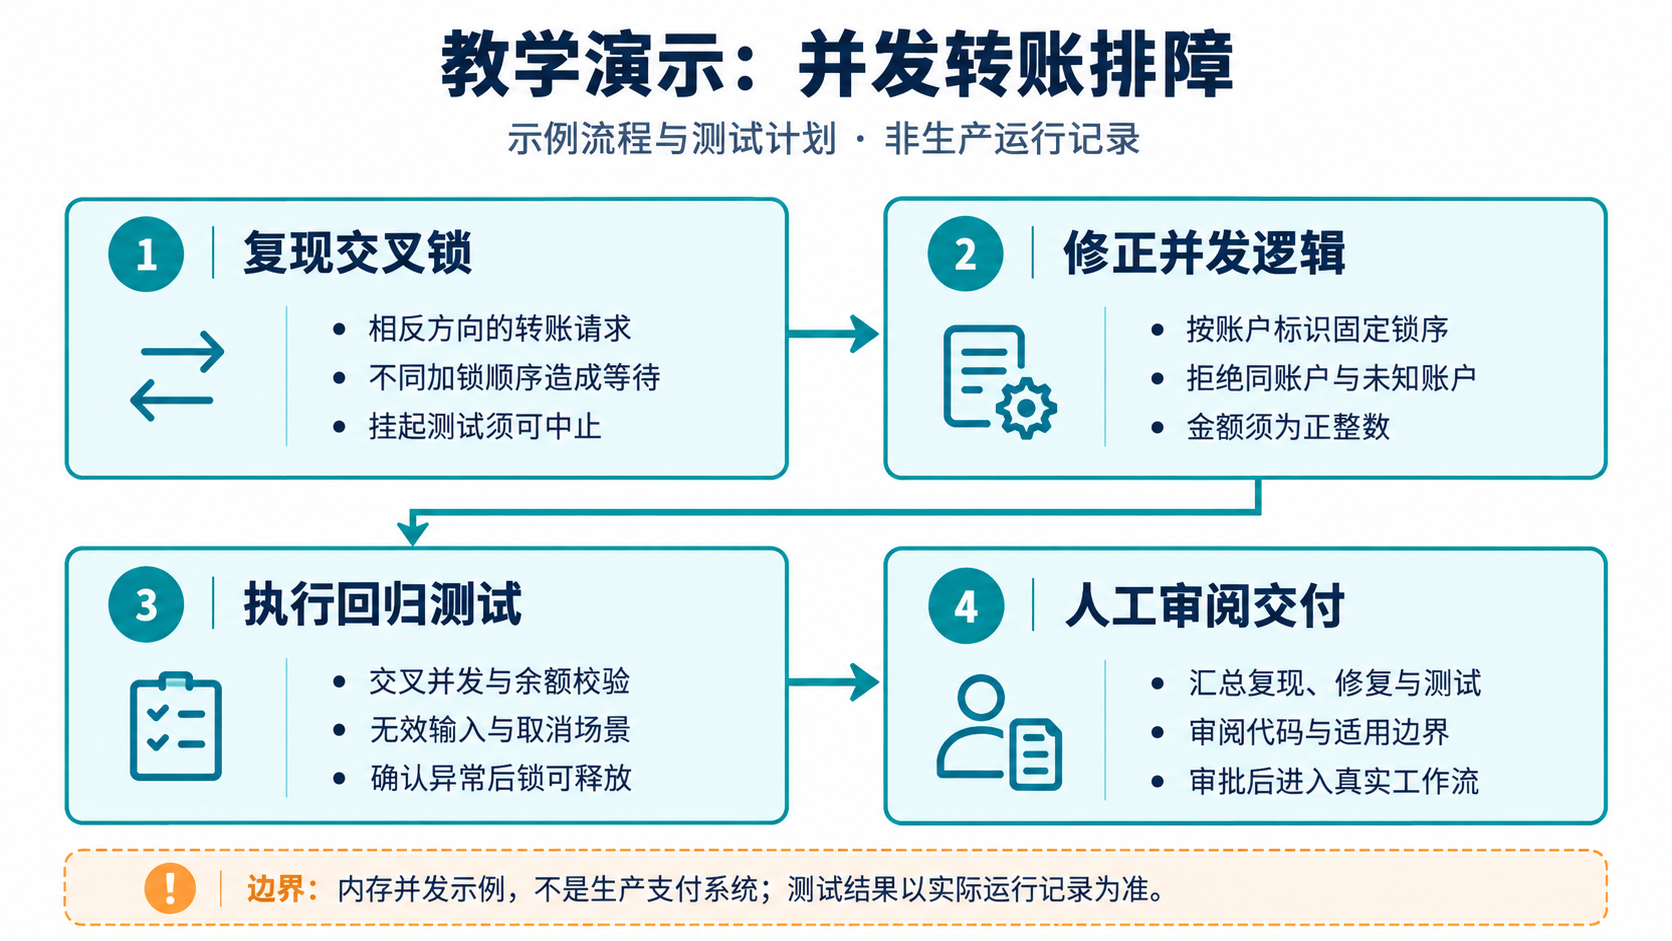
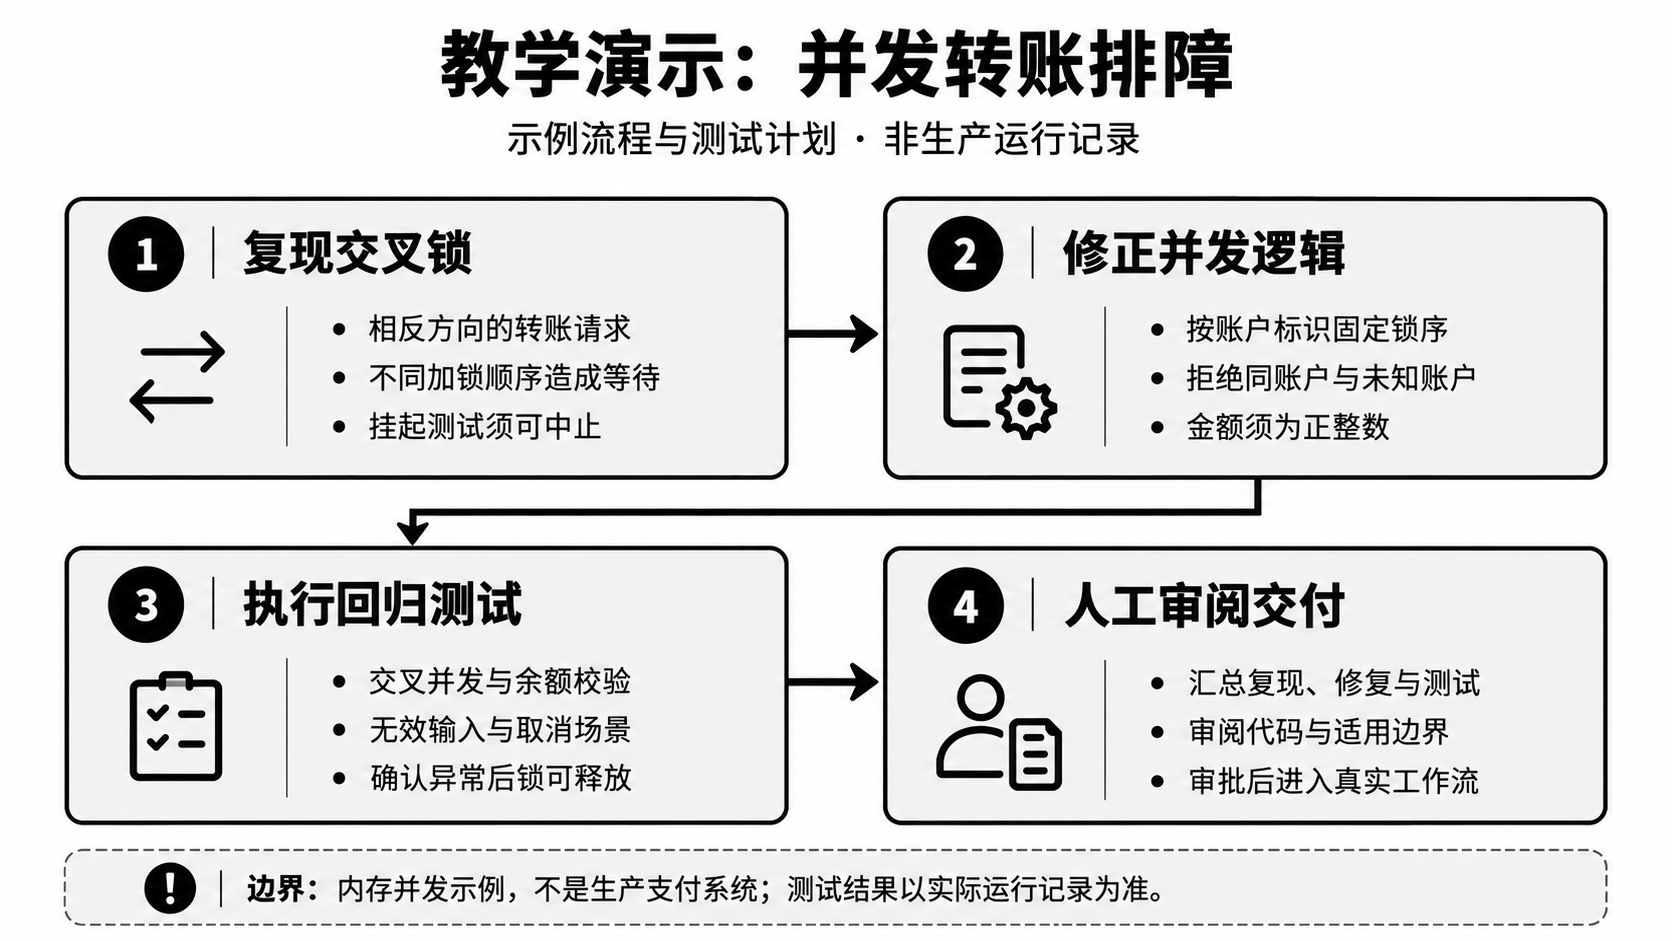
Make recent article diagrams monochrome and expand Super-agent visuals

diff --git a/scripts/check-design-browser.js b/scripts/check-design-browser.js
@@ -14,6 +14,7 @@ async (page, ctx) => {
   const { readFile, readdir } = await import('node:fs/promises');
   const checkedSources = new Map();
   const checkedCandidates = new Map();
+  const checkedMonochrome = new Set();
   const checkOriginal = async (image, label) => {
     assert(image.originalSrc, `${label}: image is missing its original source: ${image.src}`);
     const url = new URL(image.originalSrc, base);
@@ -53,6 +54,31 @@ async (page, ctx) => {
       checkedCandidates.set(candidateUrl, candidate);
     }
     assert(Math.abs(candidate[1] - candidate[0] * source.height / source.width) <= 1, `${label}: selected candidate changed the source proportions: ${candidateUrl}`);
+    // Lossy WebP can tint neutral edges; check every opt-in source and srcset file.
+    if (image.monochrome) {
+      const urls = new Set([url.href, new URL(image.src, base).href,
+        ...(image.srcset || '').split(',').map(value => value.trim().split(/\s+/)[0]).filter(Boolean).map(value => new URL(value, base).href)]);
+      for (const value of urls) {
+        if (checkedMonochrome.has(value)) continue;
+        const nonNeutral = await page.evaluate(async src => {
+          const picture = new Image();
+          picture.src = src;
+          await picture.decode();
+          const canvas = document.createElement('canvas');
+          canvas.width = picture.naturalWidth;
+          canvas.height = picture.naturalHeight;
+          const context = canvas.getContext('2d', { willReadFrequently: true });
+          context.drawImage(picture, 0, 0);
+          const pixels = context.getImageData(0, 0, canvas.width, canvas.height).data;
+          let count = 0;
+          for (let i = 0; i < pixels.length; i += 4) if (pixels[i] !== pixels[i + 1] || pixels[i + 1] !== pixels[i + 2]) count++;
+          return count;
+        }, value);
+        assert(nonNeutral === 0, `${label}: ${nonNeutral} non-neutral pixels in monochrome image: ${value}`);
+        checkedMonochrome.add(value);
+      }
+    }
+
 
   };
   // Check covers on every built page; other body pictures keep their own
@@ -68,6 +94,8 @@ async (page, ctx) => {
           const doc = new DOMParser().parseFromString(html, 'text/html');
           return [...doc.querySelectorAll('img[data-original-src]')].map(image => ({
             src: image.getAttribute('src'),
+            srcset: image.getAttribute('srcset') || '',
+            monochrome: image.dataset.monochrome === 'true',
             listing: !!image.closest('.list-thumbnails'),
             cover: image.matches('.article-cover') || (!doc.querySelector('.article-cover') && image === doc.querySelector('.reading-page .prose img')),
             originalSrc: image.dataset.originalSrc,
@@ -324,6 +352,7 @@ async (page, ctx) => {
   assert(await avatar.evaluate(node => node.complete && node.naturalWidth > 0), `the avatar did not load: ${avatarSrc}`);
   assert(await avatar.getAttribute('width') === '120' && await avatar.getAttribute('height') === '120', 'the avatar must reserve its rendered square');
   report.push('About intro renders the pipelined avatar through aboutIntro');
+  report.push(`${checkedMonochrome.size} opt-in source and generated image candidates preserve exact neutral RGB`);
   report.push(`${blogImageReports.join('; ')}; ${checkedSources.size} distinct original source(s) decoded with preserved proportions; every cover is 900x383`);
   return report;
 }

diff --git a/layouts/_partials/lab/thumbnails.html b/layouts/_partials/lab/thumbnails.html
@@ -1,5 +1,8 @@
 {{- $page := . -}}{{- $priority := false -}}
 {{- if reflect.IsMap . }}{{ $page = .page }}{{ $priority = .priority | default false }}{{ end -}}
+{{- $monochrome := $page.Params.monochromeimages | default false -}}
+{{- $encoding := "webp q85" -}}
+{{- if $monochrome }}{{ $encoding = "webp lossless" }}{{ end -}}
 {{- $sources := partial "lab/image-sources.html" $page -}}
 {{- with $sources -}}
 <div class="list-thumbnails" data-fit="contain">
@@ -14,8 +17,11 @@
       {{- $originalSource = .RelPermalink -}}
       {{- if and (eq .ResourceType "image") (ne .MediaType.SubType "svg") -}}
         {{- $originalWidth = .Width -}}{{- $originalHeight = .Height -}}
-        {{- $preview := .Fit "540x230 webp q85" -}}
-        {{- $large := .Fit "900x383 webp q85" -}}
+        {{- $processable := . -}}
+        {{- /* Normalize grayscale PNGs to RGB before Hugo's WebP codec. */ -}}
+        {{- if $monochrome }}{{ $processable = .Process "bmp" }}{{ end -}}
+        {{- $preview := $processable.Fit (printf "540x230 %s" $encoding) -}}
+        {{- $large := $processable.Fit (printf "900x383 %s" $encoding) -}}
         {{- $url = $preview.RelPermalink -}}
         {{- $width = $preview.Width -}}{{- $height = $preview.Height -}}
         {{- $srcset = printf "%s %dw, %s %dw" $preview.RelPermalink $preview.Width $large.RelPermalink $large.Width -}}
@@ -23,7 +29,7 @@
         {{- $url = .RelPermalink -}}
       {{- end -}}
     {{- end -}}
-    <a href="{{ $page.RelPermalink }}" aria-label="阅读：{{ $page.Title }}"><img src="{{ $url }}" data-original-src="{{ $originalSource }}"{{ if $originalWidth }} data-original-width="{{ $originalWidth }}" data-original-height="{{ $originalHeight }}"{{ end }} alt="{{ $page.Title }} 封面" {{ if and $priority (eq $index 0) }}loading="eager" fetchpriority="high"{{ else }}loading="lazy"{{ end }}{{ with $srcset }} srcset="{{ . }}" sizes="(max-width: 580px) calc(100vw - 40px), (max-width: 900px) 540px, (max-width: 1467px) 36.8vw, 540px"{{ end }} decoding="async" width="{{ $width }}" height="{{ $height }}"></a>
+    <a href="{{ $page.RelPermalink }}" aria-label="阅读：{{ $page.Title }}"><img src="{{ $url }}" data-original-src="{{ $originalSource }}"{{ if $monochrome }} data-monochrome="true"{{ end }}{{ if $originalWidth }} data-original-width="{{ $originalWidth }}" data-original-height="{{ $originalHeight }}"{{ end }} alt="{{ $page.Title }} 封面" {{ if and $priority (eq $index 0) }}loading="eager" fetchpriority="high"{{ else }}loading="lazy"{{ end }}{{ with $srcset }} srcset="{{ . }}" sizes="(max-width: 580px) calc(100vw - 40px), (max-width: 900px) 540px, (max-width: 1467px) 36.8vw, 540px"{{ end }} decoding="async" width="{{ $width }}" height="{{ $height }}"></a>
   {{- end -}}
 </div>
 {{- end -}}

diff --git a/layouts/_markup/render-image.html b/layouts/_markup/render-image.html
@@ -1,4 +1,7 @@
 {{- $source := .Destination -}}
+{{- $monochrome := .Page.Params.monochromeimages | default false -}}
+{{- $encoding := "webp q85" -}}
+{{- if $monochrome }}{{ $encoding = "webp lossless" }}{{ end -}}
 {{- $image := partial "lab/image-resource.html" (dict "page" .Page "src" $source) -}}
 {{- $srcset := slice -}}
 {{- $originalSource := $source -}}
@@ -8,10 +11,12 @@
   {{- $originalSource = .RelPermalink -}}
   {{- if and (eq .ResourceType "image") (ne .MediaType.SubType "svg") -}}
     {{- $originalWidth = .Width -}}{{- $originalHeight = .Height -}}
-    {{- if gt .Width 1440 }}{{ $image = .Resize "1440x webp q85" }}{{ else }}{{ $image = .Process "webp q85" }}{{ end -}}
+    {{- /* Normalize grayscale PNGs to RGB before Hugo's WebP codec. */ -}}
+    {{- if $monochrome }}{{ $image = .Process "bmp" }}{{ end -}}
+    {{- if gt .Width 1440 }}{{ $image = $image.Resize (printf "1440x %s" $encoding) }}{{ else }}{{ $image = $image.Process $encoding }}{{ end -}}
     {{- range slice 480 960 -}}
       {{- if lt . $image.Width -}}
-        {{- $variant := $image.Resize (printf "%dx webp q85" .) -}}
+        {{- $variant := $image.Resize (printf "%dx %s" . $encoding) -}}
         {{- $srcset = $srcset | append (printf "%s %dw" $variant.RelPermalink $variant.Width) -}}
       {{- end -}}
     {{- end -}}
@@ -25,4 +30,4 @@
   {{- end -}}
   {{- $source = $image.RelPermalink -}}
 {{- end -}}
-<img src="{{ $source | safeURL }}" data-original-src="{{ $originalSource | safeURL }}"{{ if $originalWidth }} data-original-width="{{ $originalWidth }}" data-original-height="{{ $originalHeight }}"{{ end }} alt="{{ .PlainText }}"{{ with .Title }} title="{{ . }}"{{ end }}{{ if $width }} width="{{ $width }}" height="{{ $height }}"{{ end }} {{ with $srcset }}srcset="{{ delimit . ", " }}" sizes="(max-width:760px) calc(100vw - 40px), (max-width:1800px) 80vw, 1440px"{{ end }} {{ if eq .Ordinal 0 }}loading="eager" fetchpriority="high"{{ else }}loading="lazy"{{ end }} decoding="async">
+<img src="{{ $source | safeURL }}" data-original-src="{{ $originalSource | safeURL }}"{{ if $monochrome }} data-monochrome="true"{{ end }}{{ if $originalWidth }} data-original-width="{{ $originalWidth }}" data-original-height="{{ $originalHeight }}"{{ end }} alt="{{ .PlainText }}"{{ with .Title }} title="{{ . }}"{{ end }}{{ if $width }} width="{{ $width }}" height="{{ $height }}"{{ end }} {{ with $srcset }}srcset="{{ delimit . ", " }}" sizes="(max-width:760px) calc(100vw - 40px), (max-width:1800px) 80vw, 1440px"{{ end }} {{ if eq .Ordinal 0 }}loading="eager" fetchpriority="high"{{ else }}loading="lazy"{{ end }} decoding="async">

diff --git a/content/blog/deepseek-superagent-architecture-prototype/index.md b/content/blog/deepseek-superagent-architecture-prototype/index.md
@@ -8,6 +8,7 @@ categories: ["AI"]
 images: ["images/cover-superagent.png"]
 draft: false
 tags: ["AI", "Agent", "DeepSeek", "Python"]
+monochromeImages: true
 ---
 
 ![DeepSeek Super-agent 分层协作架构解读](images/cover-superagent.png)
@@ -79,6 +80,10 @@ tags: ["AI", "Agent", "DeepSeek", "Python"]
 * **主动执行不是默认无条件监听后行动**：推断候选默认处于 `observe` 模式，只记录判断；切换到 `auto` 后仍需评估并匹配启用的规则。
 * **Thread 订阅绑定**：相关后续消息可进入已有任务。订阅提供上下文，不自动增加权限；超出范围的请求要交回路由处理。[授权文档](https://github.com/deepseek-ai/dsh-superagent-prototype/blob/main/docs/002-authorization.md)
 
+[![新任务候选的授权路径](images/authorization_modes.png)](images/authorization_modes.png)
+
+简化的新任务授权路径：显式请求经来源策略与身份检查后交由 Router 路由，在三种模式下均可处理；推断候选只有在 `auto` 下评估通过且匹配启用规则才可接单。已有任务的后续消息另循订阅规则。[官方授权文档](https://github.com/deepseek-ai/dsh-superagent-prototype/blob/main/docs/002-authorization.md)
+
 #### 模块三：面向人类的交互与异步 ReAct 循环
 在一个工作会话中，思考与调用工具仍需要有序衔接，但耗时工具不必锁住全部交互。公开原型的 Router 和 Worker preset 会将超过 5 秒的前台 shell 命令转为后台任务，使会话能在后续步骤接收消息。
 
@@ -91,6 +96,10 @@ tags: ["AI", "Agent", "DeepSeek", "Python"]
 原型以 DeepSeek Harness (`dsh`) bundle 形式运行，并通过插件组织能力。工程上，插件生命周期与持久状态需要分别设计：组件可替换，不代表业务副作用可以任意撤销，也不意味着零停机。
 
 官方文档描述了 session、目录、订阅、待处理消息及已存储工作的恢复。宿主重启会结束正在运行的后台工作，中断的 Assignment 会带恢复说明重新开始；执行体需核对目录、Git 历史和远端状态，避免重复外部操作。**这不是运行中进程的快照迁移，也没有数秒无损恢复的保证。**
+
+[![宿主重启时的状态恢复边界](images/recovery_boundary.png)](images/recovery_boundary.png)
+
+恢复保留的会话、目录和任务记录，不等于恢复运行中进程。中断任务带恢复说明重新开始，并检查已有副作用；独立工作目录也不等于安全沙盒。[官方执行与恢复文档](https://github.com/deepseek-ai/dsh-superagent-prototype/blob/main/docs/003-execution.md)
 
 #### 模块五：看门狗与异常恢复的设计边界
 独立监控有助于发现挂起命令、反复失败和异常资源消耗，这是长程 Agent 值得考虑的工程手段。外部指标只能提供线索：没有日志可能只是正常等待，重复调用也不一定是失控；目标漂移尤其不能靠 CPU 或日志间隔可靠判断。
@@ -135,6 +144,10 @@ tags: ["AI", "Agent", "DeepSeek", "Python"]
 通过 **Router-Worker** 架构：
 * **Router** 承担了“贴身技术主管（Tech Lead）”的角色：过滤噪音、控制汇报颗粒度、保护人类专注力；
 * **Worker** 则是“机房里的自动化工蜂”：在各自的执行会话和目录中工作，只把最终的排查结果以最小必要形式呈递上来。
+
+[![从会话切换到分层协作](images/session_comparison.png)](images/session_comparison.png)
+
+分层协作将任务执行与结果沟通分开，让工程师集中处理关键决策。这是交互组织方式的对比，不表示所有现有工具都缺少后台能力。
 
 ---
 
@@ -275,6 +288,10 @@ async def test_concurrent_transfer_deadlock():
 ### 3.5 锁排序修复与可复现回归测试
 
 对于这个单事件循环示例，**全局锁排序（Lock Ordering）**可避免两个不同账户交叉获取锁造成循环等待。还需拒绝同账户请求，以免重复获取同一把非重入锁，并校验金额与账户。这里没有使用 CAS。
+
+[![交叉死锁与固定锁序对比](images/lock_order.png)](images/lock_order.png)
+
+相反锁序可能形成循环等待；固定锁序让任务先竞争同一把锁。示例还拒绝同账户、未知账户及非正整数金额，适用边界仍是单进程、单事件循环的内存模型。
 
 ```python
 """Teaching example only: one process, one event loop, in-memory balances."""

diff --git a/content/blog/inventory-turnover-coverage-loss-validation/index.md b/content/blog/inventory-turnover-coverage-loss-validation/index.md
@@ -9,6 +9,7 @@ categories: ["供应链"]
 tags: ["供应链", "指标验收", "库存周转", "库存覆盖", "损耗"]
 images:
   - images/d7-00_cover.png
+monochromeImages: true
 ---
 
 ![履约验收通过以后，分清库存的三个问题](images/d7-00_cover.png)
